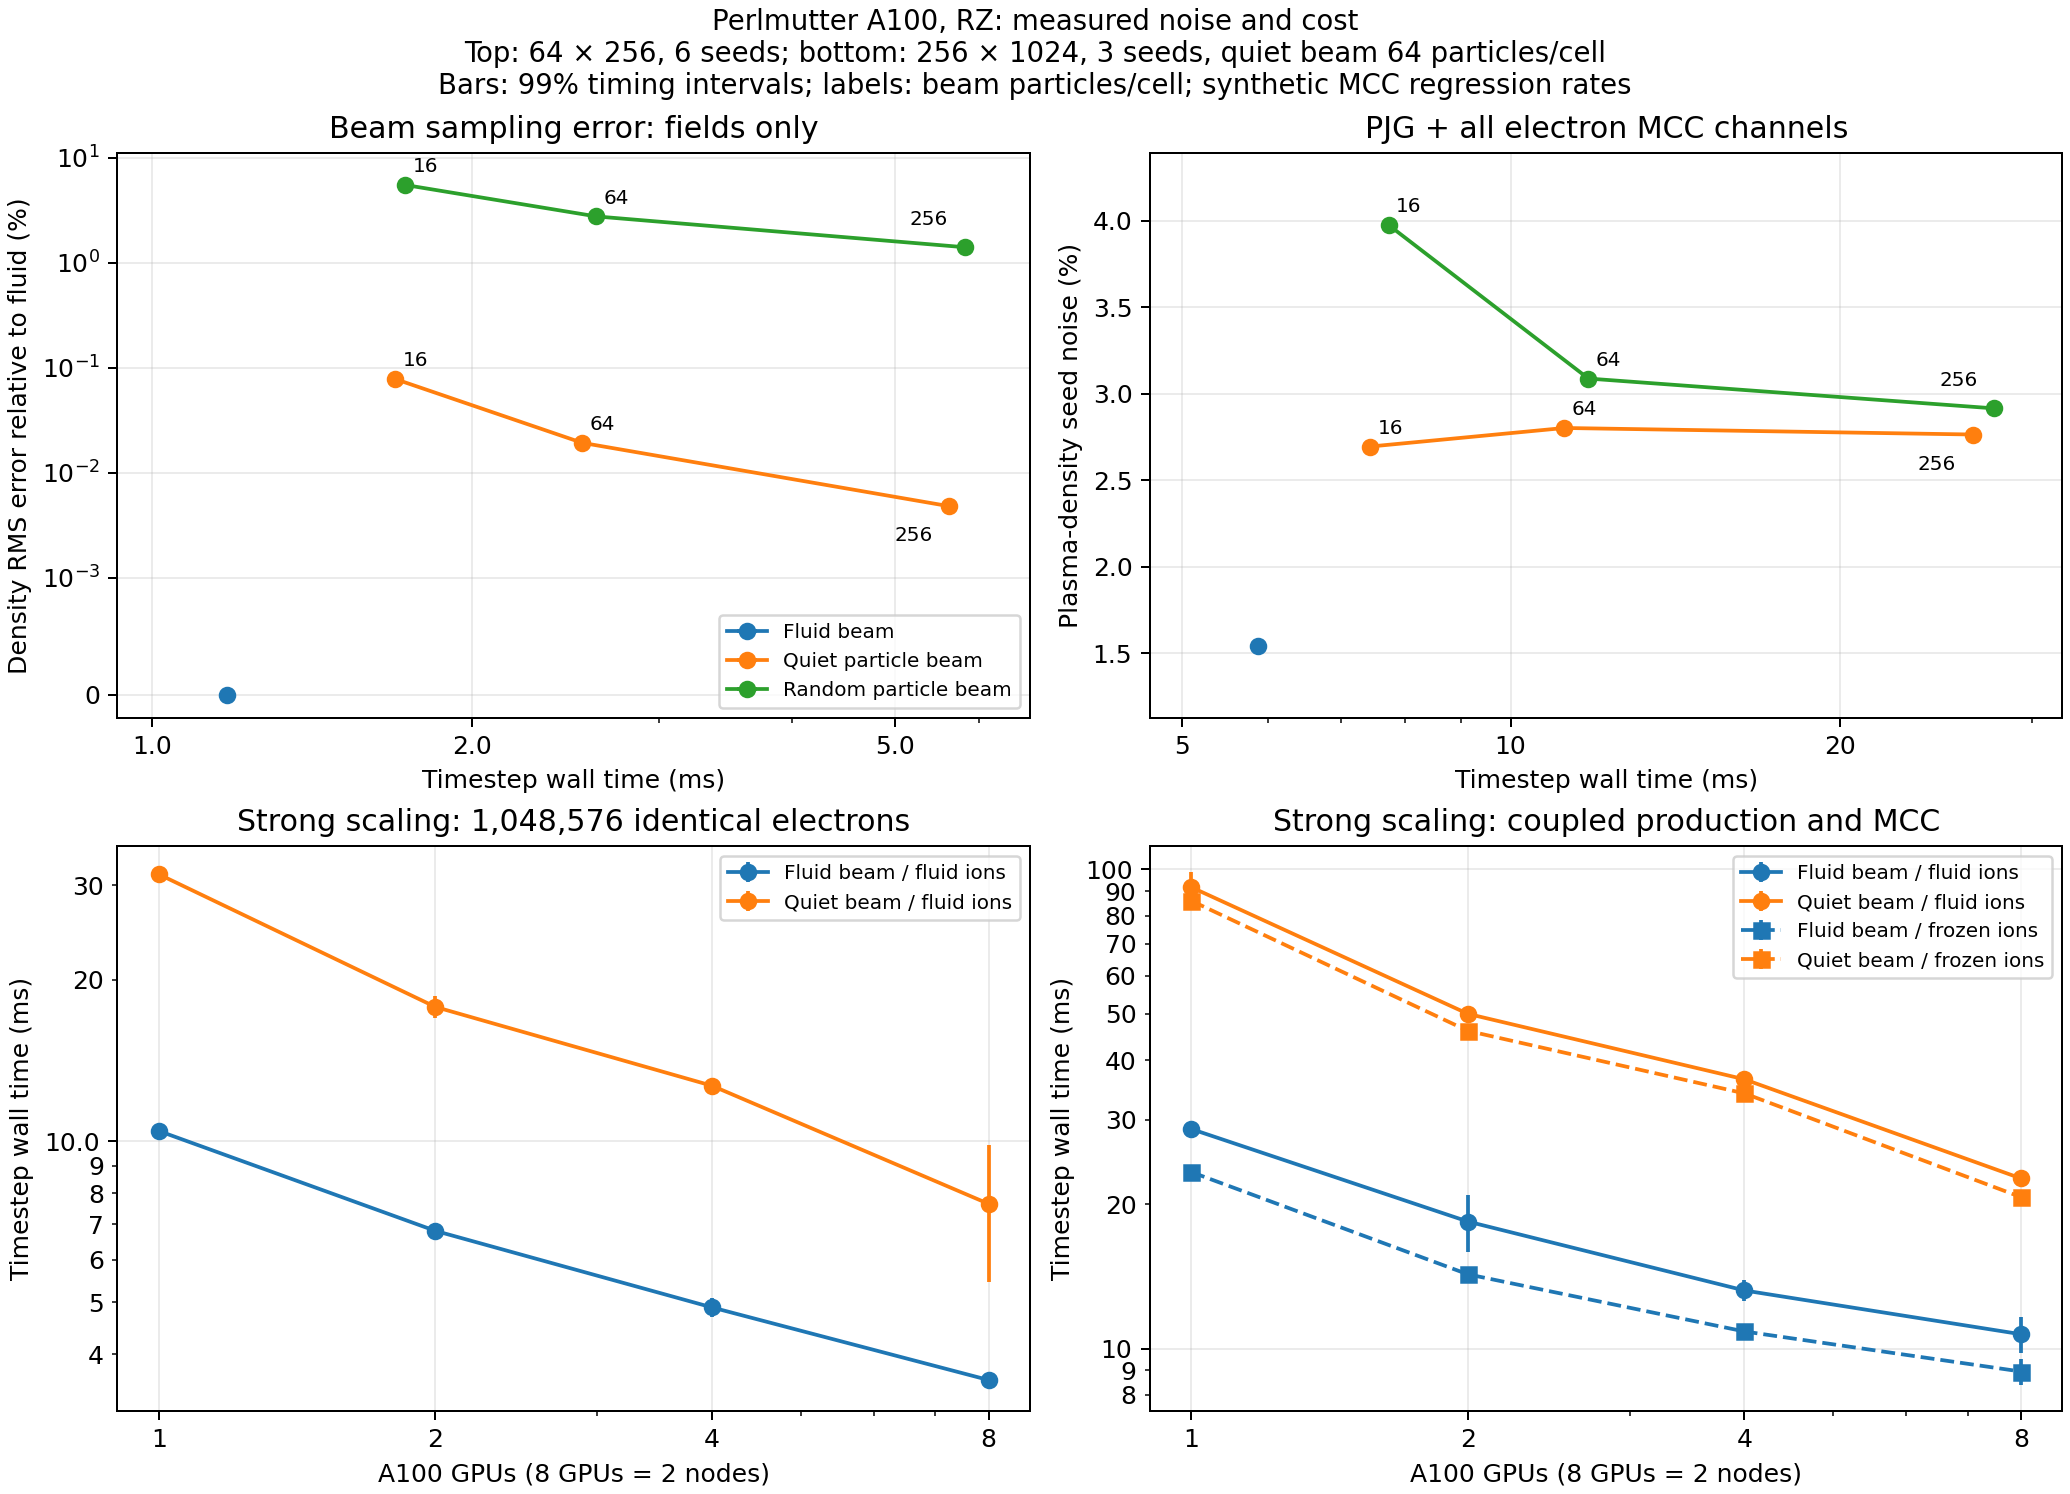
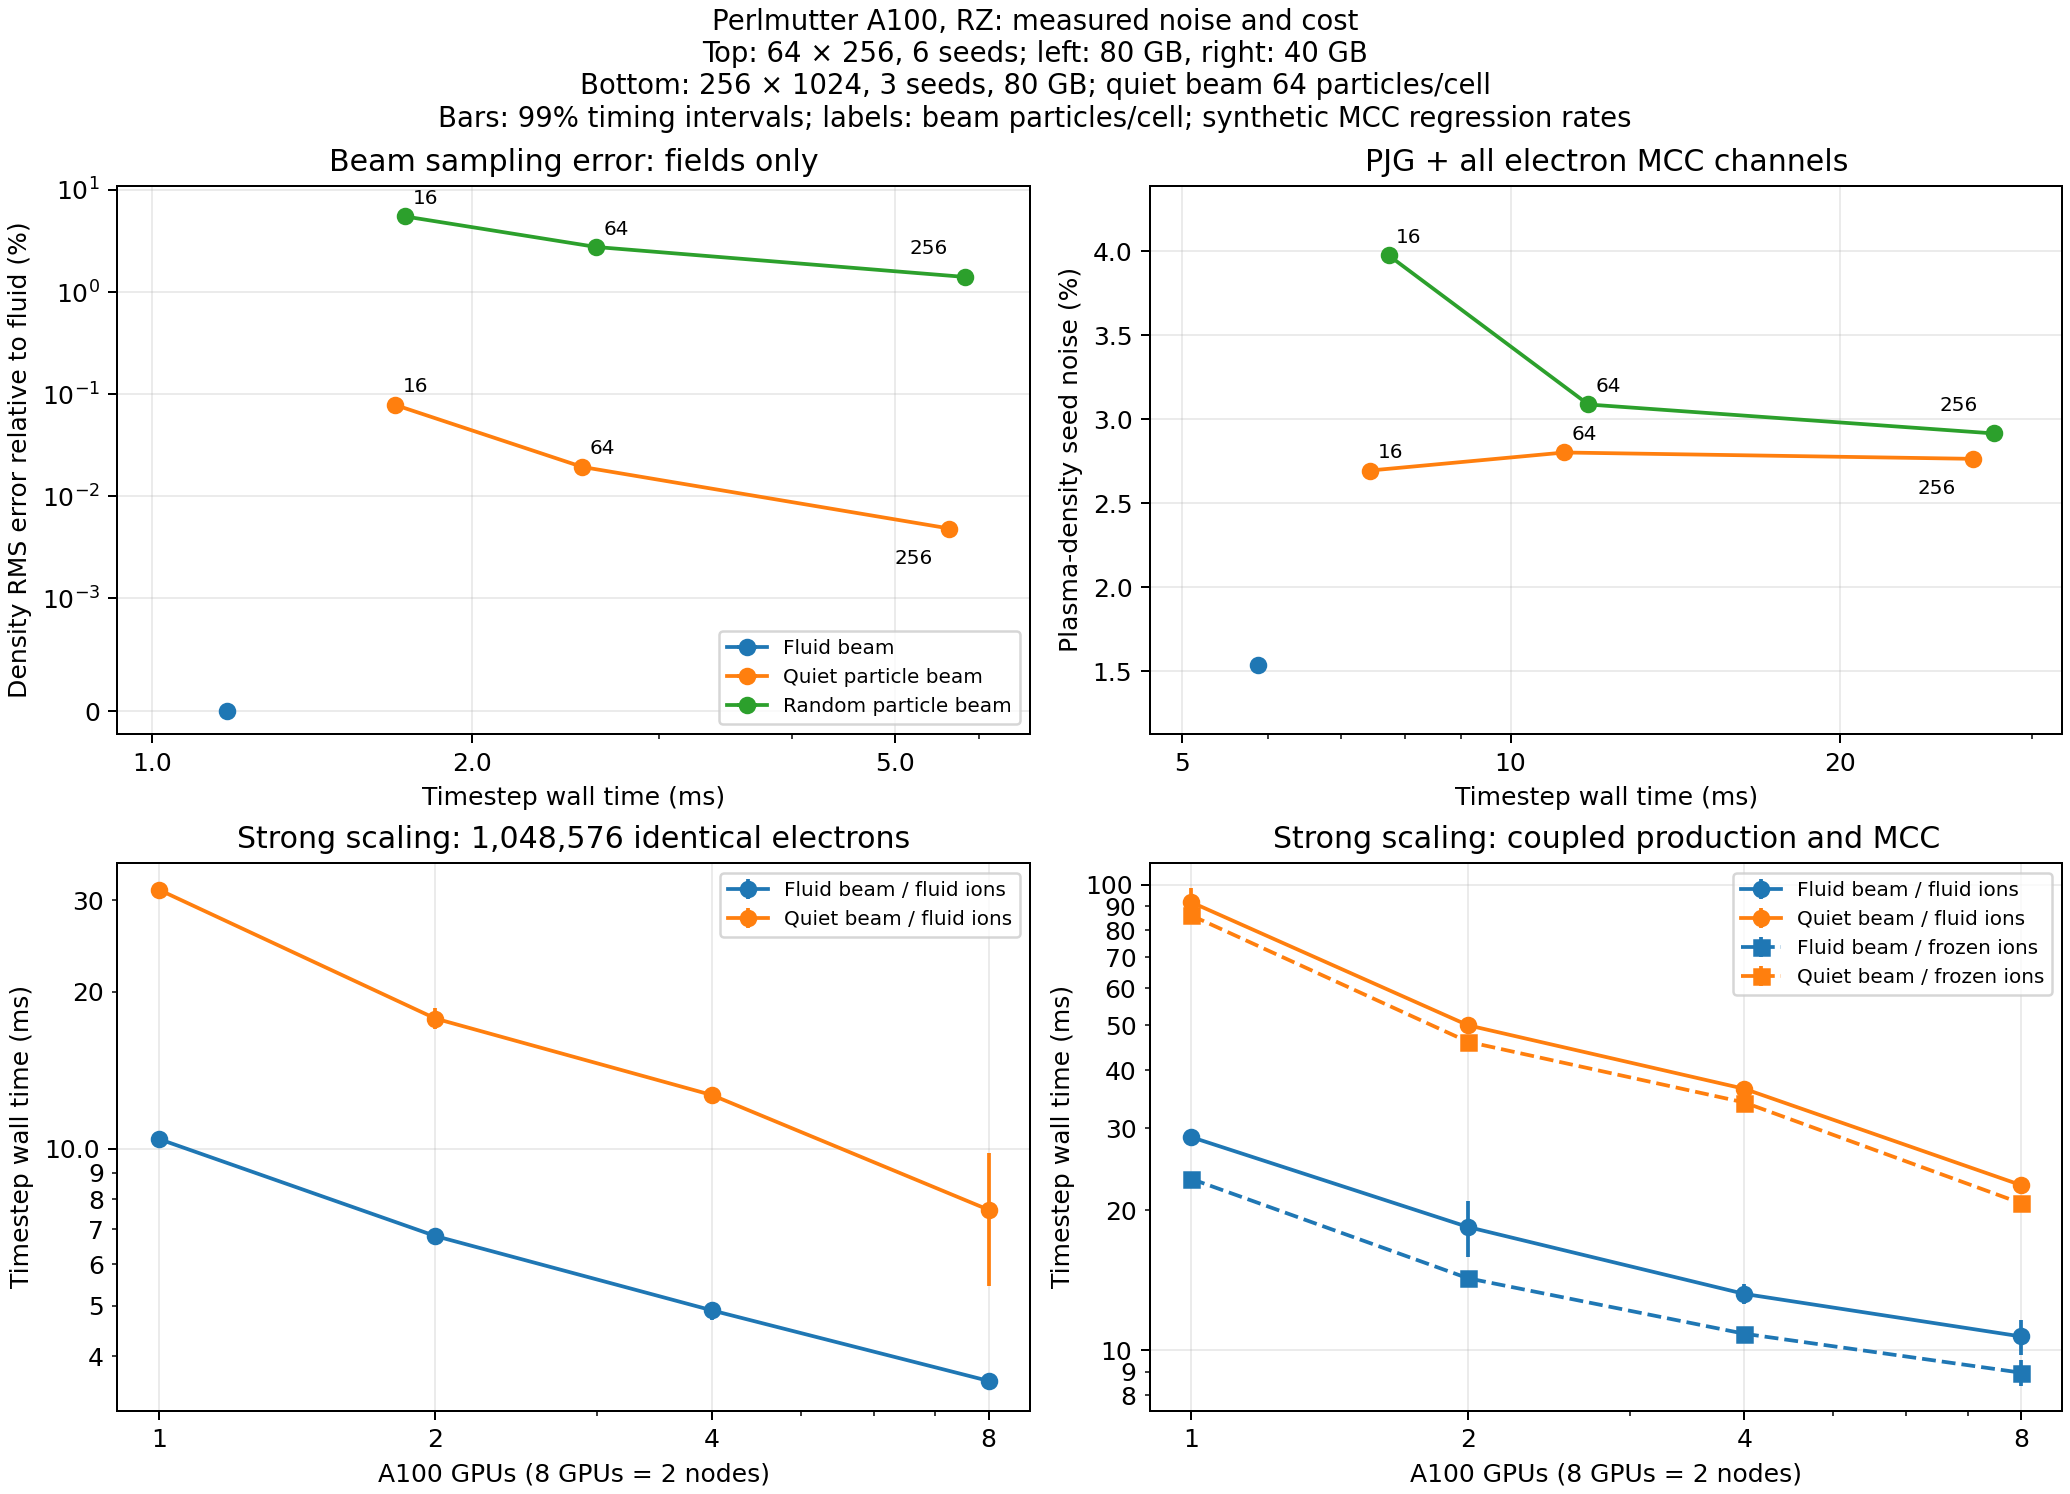
Label actual A100 memory variants in performance figures
Derive 40/80 GB labels from archived device metadata rather than assuming one A100 variant. Retain the original eight-rank memory range and log fingerprint for the two-node scaling run. Regenerated and visually checked PNG/PDF; Ruff checks pass.

diff --git a/Tools/Algorithms/PrescribedFluids/plot_reaudit.py b/Tools/Algorithms/PrescribedFluids/plot_reaudit.py
@@ -3,6 +3,7 @@
 
 import argparse
 import json
+import re
 from pathlib import Path
 
 import matplotlib
@@ -49,6 +50,28 @@ def main():
     noise = {summary["settings"]["mode"]: summary for summary in noise_summaries}
     assert len(noise) == len(noise_summaries), "Select only one study per noise family"
     scaling = summaries(report, args.scaling_jobs, "scaling")
+
+    def memory_labels(jobs, mode=None):
+        sizes = set()
+        for job in jobs:
+            for study in report[str(job)]["studies"]:
+                if mode is not None and not any(
+                    name.endswith("summary.json")
+                    and data.get("settings", {}).get("mode") == mode
+                    for name, data in study["comparisons"].items()
+                ):
+                    continue
+                provenance = study["provenance"]
+                models = provenance.get("device.txt", "")
+                for rank in provenance.get("topology", {}).get("placement", []):
+                    models += " " + rank.get("model", "")
+                sizes.update(re.findall(r"A100-\S*?-(\d+)GB", models))
+        assert sizes, "Selected studies must identify their A100 memory variants"
+        return "/".join(sorted(sizes, key=int))
+
+    field_memory = memory_labels(args.noise_jobs, "fields")
+    coupled_memory = memory_labels(args.noise_jobs, "coupled")
+    scaling_memory = memory_labels(args.scaling_jobs)
     assert all(len(summary["ranks"]) == 1 for summary in scaling)
     assert noise["fields"]["settings"]["cells"] == noise["coupled"]["settings"]["cells"]
     assert noise["fields"]["settings"]["cells"] == [64, 256]
@@ -177,7 +200,8 @@ def main():
         axis.grid(True, alpha=0.25)
     fig.suptitle(
         "Perlmutter A100, RZ: measured noise and cost\n"
-        "Top: 64 × 256, 6 seeds; bottom: 256 × 1024, 3 seeds, quiet beam 64 particles/cell\n"
+        f"Top: 64 × 256, 6 seeds; left: {field_memory} GB, right: {coupled_memory} GB\n"
+        f"Bottom: 256 × 1024, 3 seeds, {scaling_memory} GB; quiet beam 64 particles/cell\n"
         "Bars: 99% timing intervals; labels: beam particles/cell; synthetic MCC regression rates",
         fontsize=11,
     )
